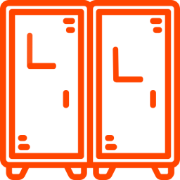
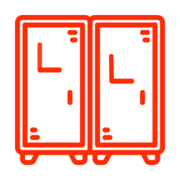
adds white background to all favicos

diff --git a/public/index.html b/public/index.html
@@ -4,9 +4,15 @@
 <head>
   <meta charset="utf-8" />
   <link rel="shortcut icon" href="%PUBLIC_URL%/favicon.ico" />
+  <link rel="apple-touch-icon" sizes="180x180" href="%PUBLIC_URL%/apple-touch-icon.png">
+  <link rel="icon" type="image/png" sizes="32x32" href="%PUBLIC_URL%/favicon-32x32.png">
+  <link rel="icon" type="image/png" sizes="16x16" href="%PUBLIC_URL%/favicon-16x16.png">
+  <link rel="manifest" href="/site.webmanifest">
+  <link rel="mask-icon" href="/safari-pinned-tab.svg" color="#5bbad5">
+  <meta name="msapplication-TileColor" content="#da532c">
   <meta name="viewport" content="width=device-width, initial-scale=1, shrink-to-fit=no, maximum-scale=1" />
   <meta name="theme-color" content="#f37f21" />
-  <meta name="description" content="Learn Locker is the best learning platform for developers!"/>
+  <meta name="description" content="Learn Locker is the best learning platform for developers!" />
   <link rel="manifest" href="%PUBLIC_URL%/manifest.json" />
   <link rel="stylesheet" href="https://use.fontawesome.com/releases/v5.0.13/css/all.css"
     integrity="sha384-DNOHZ68U8hZfKXOrtjWvjxusGo9WQnrNx2sqG0tfsghAvtVlRW3tvkXWZh58N9jp" crossorigin="anonymous">
@@ -15,14 +21,17 @@
 
 <body id="body">
   <!-- Global site tag (gtag.js) - Google Analytics -->
-<script async src="https://www.googletagmanager.com/gtag/js?id=UA-140060704-1"></script>
-<script>
-  window.dataLayer = window.dataLayer || [];
-  function gtag(){dataLayer.push(arguments);}
-  gtag('js', new Date());
+  <script async src="https://www.googletagmanager.com/gtag/js?id=UA-140060704-1"></script>
+  <script>
+    window.dataLayer = window.dataLayer || [];
 
-  gtag('config', 'UA-140060704-1');
-</script>
+    function gtag() {
+      dataLayer.push(arguments);
+    }
+    gtag('js', new Date());
+
+    gtag('config', 'UA-140060704-1');
+  </script>
 
   <noscript>You need to enable JavaScript to run this app.</noscript>
   <div id="root"></div>
